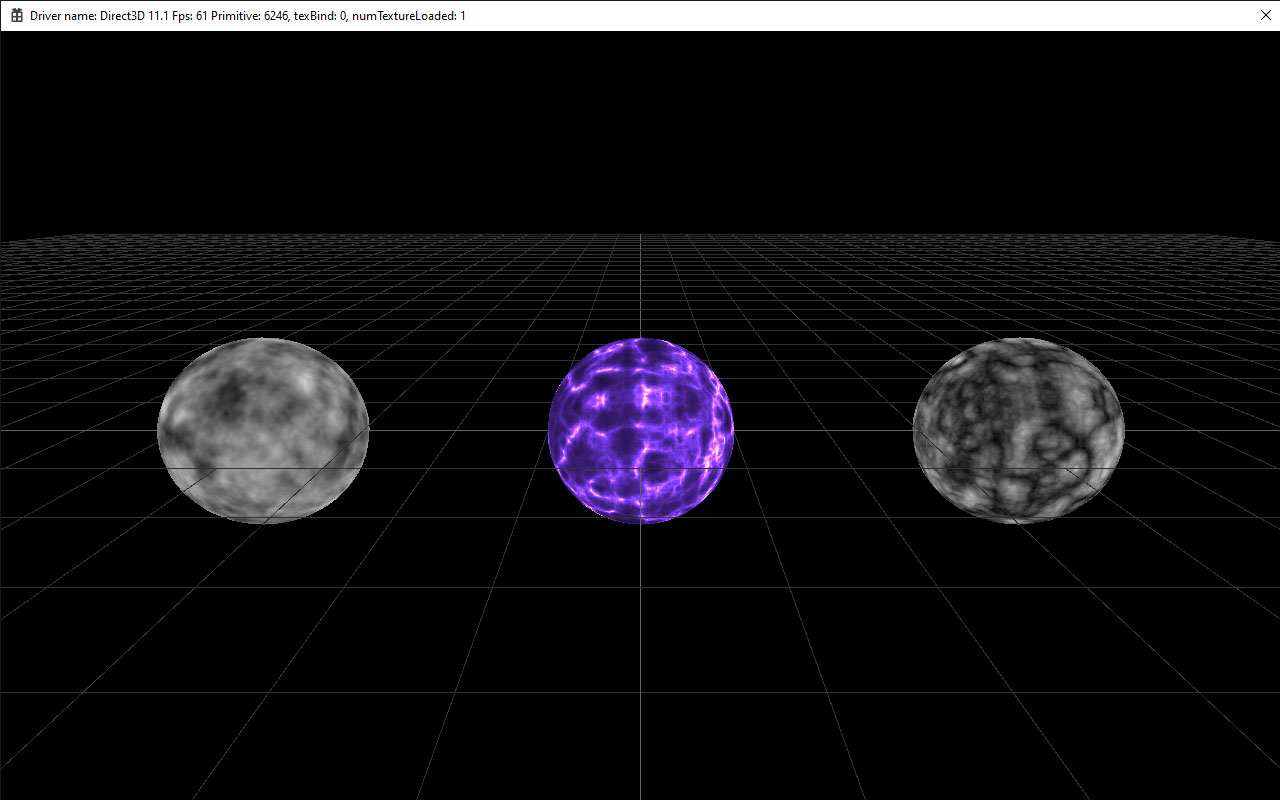
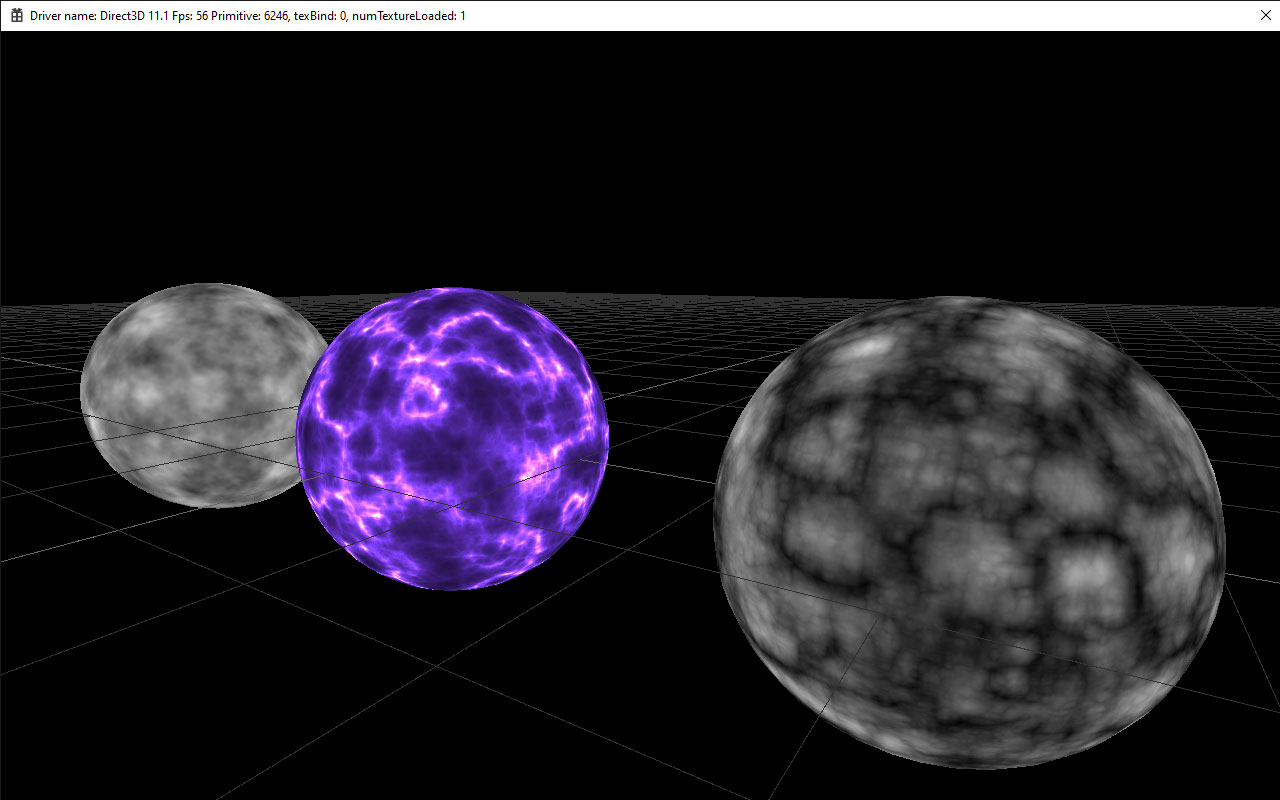
Update noise 3d

diff --git a/Samples/Noise3D/Source/SampleNoise3D.cpp b/Samples/Noise3D/Source/SampleNoise3D.cpp
@@ -92,13 +92,13 @@ void SampleNoise3D::onInitApp()
 	sphereObj = zone->createEmptyObject();
 	sphere = sphereObj->addComponent<CSphereComponent>();
 	sphere->getMaterial()->changeShader("BuiltIn/Shader/Noise/Noise3D.xml");
-	sphereObj->getTransformEuler()->setPosition(core::vector3df(4.0f, 0.0f, 0.0f));
+	sphereObj->getTransformEuler()->setPosition(core::vector3df(3.0f, 0.0f, 0.0f));
 	m_materials.push_back(sphere->getMaterial());
 
 	sphereObj = zone->createEmptyObject();
 	sphere = sphereObj->addComponent<CSphereComponent>();
 	sphere->getMaterial()->changeShader("BuiltIn/Shader/Noise/Fbm3D.xml");
-	sphereObj->getTransformEuler()->setPosition(core::vector3df(-4.0f, 0.0f, 0.0f));
+	sphereObj->getTransformEuler()->setPosition(core::vector3df(-3.0f, 0.0f, 0.0f));
 	m_materials.push_back(sphere->getMaterial());
 
 	sphereObj = zone->createEmptyObject();
